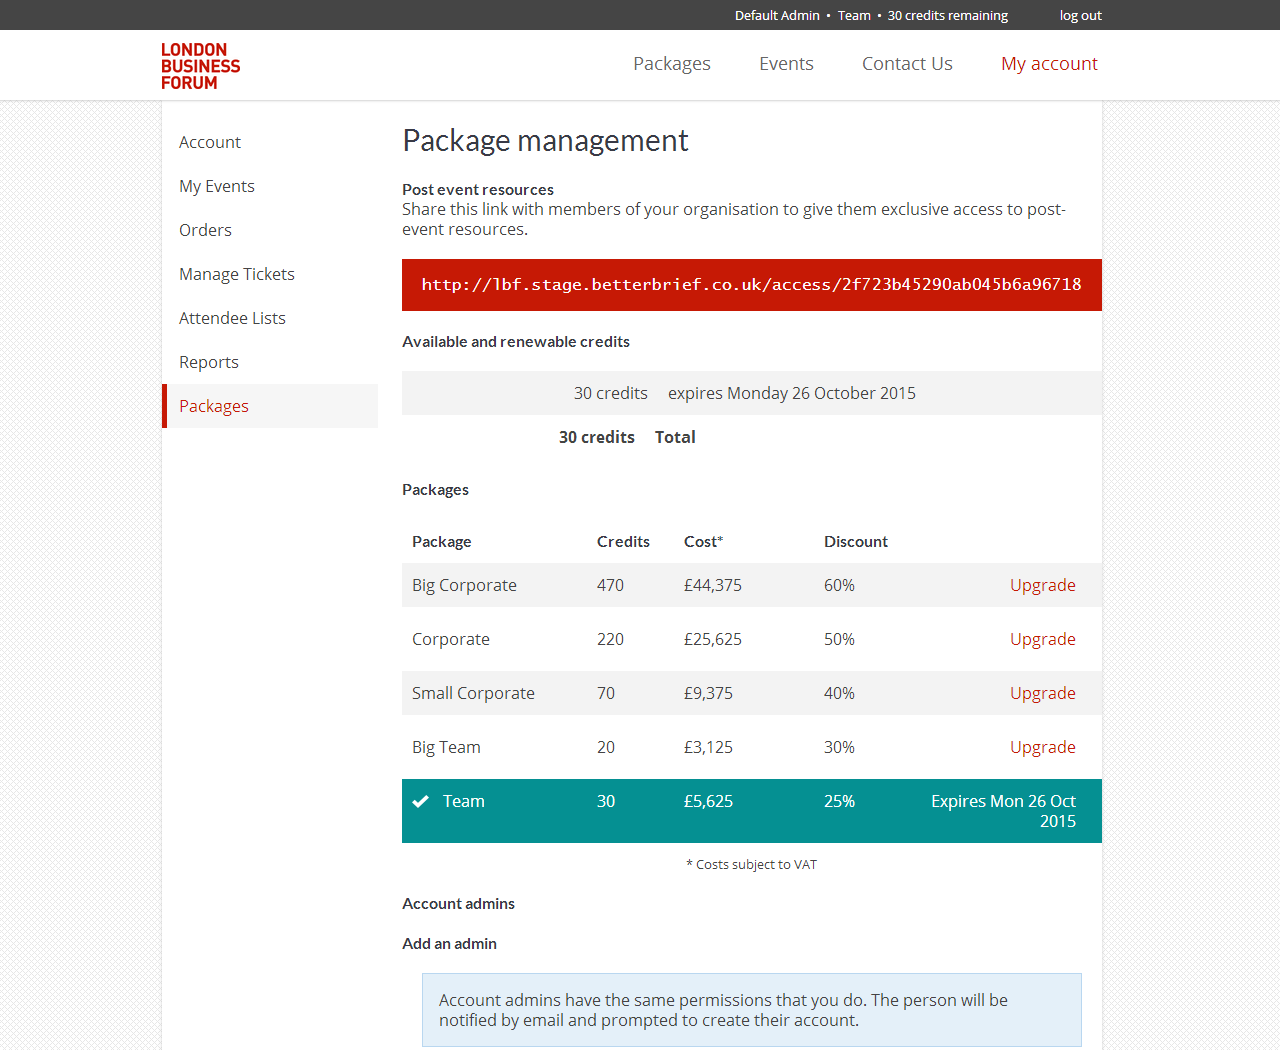
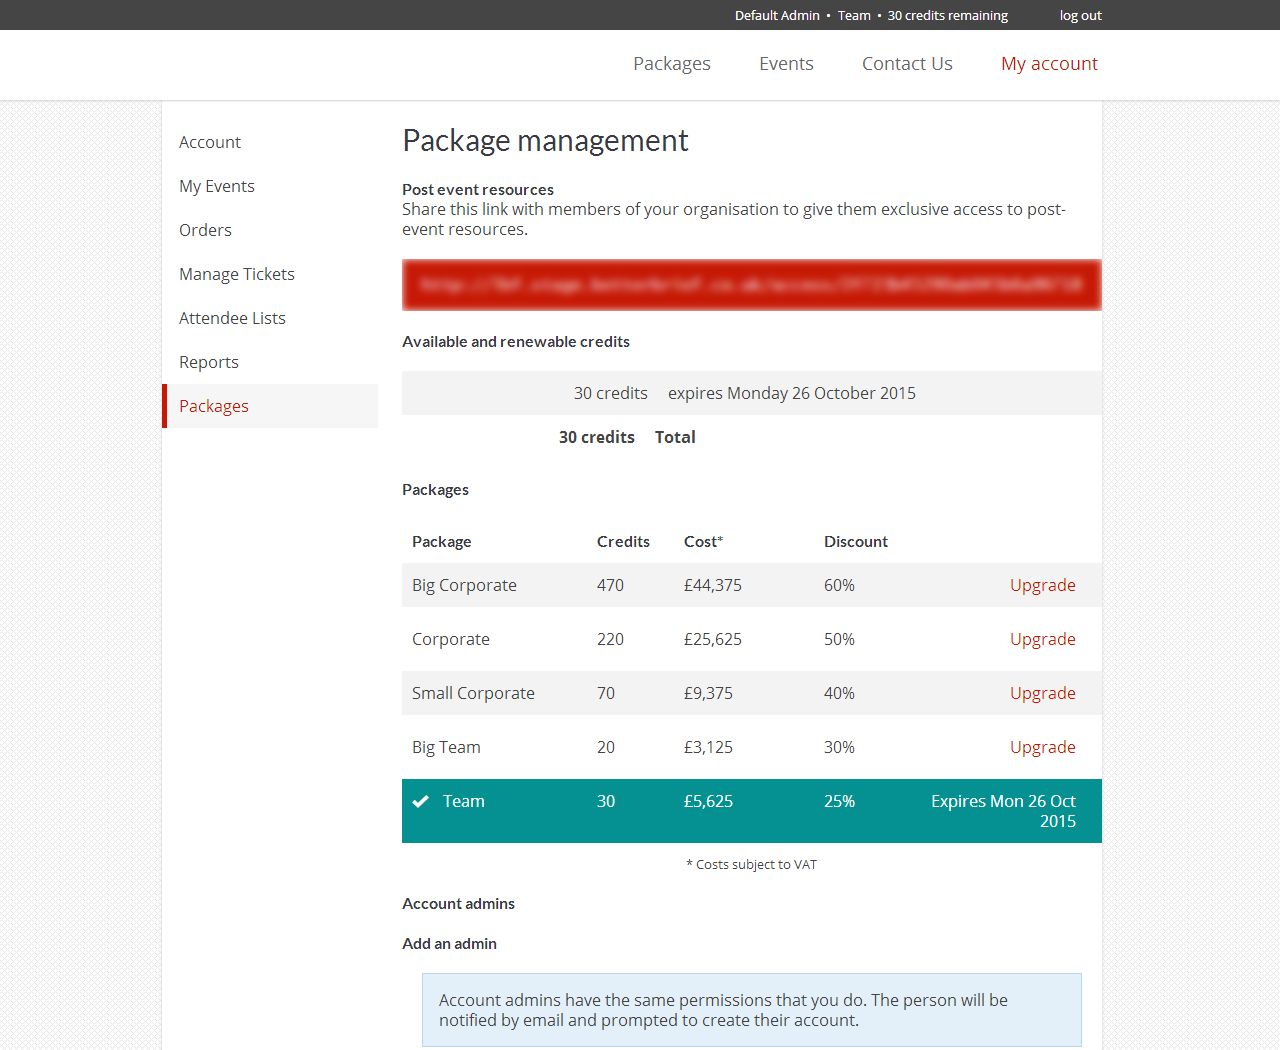
Remove LBF references
London Business Forum have sadly requested that London Business Forum's work "cannot be displayed". Although there is no legal basis to remove the work, in good faith I have interpreted their request to mean "please remove our logo", and so have complied accordingly as it is their IP.

Changed region(s): [[0.3125, 0.2438, 0.875, 0.3048], [0.125, 0.0305, 0.1875, 0.0914]]

diff --git a/www/index.html b/www/index.html
@@ -172,11 +172,11 @@
 			</article>
 			<article class="portfolio--lbf ui-panel">
 				<div class="ui-panel--content">
-					<h3>London Business Forum</h3>
-					<p>I architected and built the backend for London Business Forum, who hold fun and insightful events with brilliant speakers.</p>
+					<h3>Event e-commerce system</h3>
+					<p>I architected and built a backend to bespoke requirements for a London events company. </p>
 					<figure class="thumb">
-						<img src="../img/lbf/layout-thumb.jpg" alt="An example ticket generated by the London Business Forum system" />
-						<figcaption>An example ticket generated by the London Business Forum system</figcaption>
+						<img src="../img/lbf/layout-thumb.jpg?v=2" alt="An example ticket generated by the system" />
+						<figcaption>An example ticket generated by the system</figcaption>
 					</figure>
 					<section class="portfolio__info roles">
 						<h6>Roles</h6>
@@ -188,7 +188,7 @@
 					<section class="portfolio__info features">
 						<h6>Features</h6>
 						<ul class="features__list">
-							<li>A bespoke e-commerce system tailored to LBF's unique business requirements</li>
+							<li>A bespoke e-commerce system tailored to unique business requirements</li>
 							<li>Payments and CRM handled through Stripe</li>
 							<li>Intelligent email notification system</li>
 							<li>Over 200 unit tests to protect against regression during ongoing development</li>
@@ -206,39 +206,39 @@
 					</section>
 					<section class="portfolio__screens">
 						<figure>
-							<img src="img/lbf/03-event-page.png" alt="London Business Forum: Event page" />
+							<img src="img/lbf/03-event-page.png?v=2" alt="Event system: Event page" />
 							<figcaption>Event page</figcaption>
 						</figure>
 						<figure>
-							<img src="img/lbf/04-basket.png" alt="London Business Forum: Basket review" />
+							<img src="img/lbf/04-basket.png?v=2" alt="Event system: Basket review" />
 							<figcaption>Basket review</figcaption>
 						</figure>
 						<figure>
-							<img src="img/lbf/05-payment.png" alt="London Business Forum: Payments with Stripe" />
+							<img src="img/lbf/05-payment.png?v=2" alt="Event system: Payments with Stripe" />
 							<figcaption>Payments with Stripe</figcaption>
 						</figure>
 						<figure>
-							<img src="img/lbf/06-order-complete.png" alt="London Business Forum: Purchase success" />
+							<img src="img/lbf/06-order-complete.png?v=2" alt="Event system: Purchase success" />
 							<figcaption>Purchase success</figcaption>
 						</figure>
 						<figure>
-							<img src="img/lbf/07-ticket.png" alt="London Business Forum: Ticket generated to PDF" />
+							<img src="img/lbf/07-ticket.png?v=2" alt="Event system: Ticket generated to PDF" />
 							<figcaption>Ticket generated to PDF</figcaption>
 						</figure>
 						<figure>
-							<img src="img/lbf/02-past-events.png" alt="London Business Forum: Event listing" />
+							<img src="img/lbf/02-past-events.png?v=2" alt="Event system: Event listing" />
 							<figcaption>Event listing</figcaption>
 						</figure>
 						<figure>
-							<img src="img/lbf/08-package-management.png" alt="London Business Forum: User dashboard for packages" />
+							<img src="img/lbf/08-package-management.png?v=2" alt="Event system: User dashboard for packages" />
 							<figcaption>User dashboard for packages</figcaption>
 						</figure>
 						<figure>
-							<img src="img/lbf/09-ticket-management.png" alt="London Business Forum: User dashboard for tickets" />
+							<img src="img/lbf/09-ticket-management.png?v=2" alt="Event system: User dashboard for tickets" />
 							<figcaption>User dashboard for tickets</figcaption>
 						</figure>
 						<figure>
-							<img src="img/lbf/10-ticket-basket.png" alt="London Business Forum: Ticket assignment" />
+							<img src="img/lbf/10-ticket-basket.png?v=2" alt="Event system: Ticket assignment" />
 							<figcaption>Ticket assignment</figcaption>
 						</figure>
 					</section>
